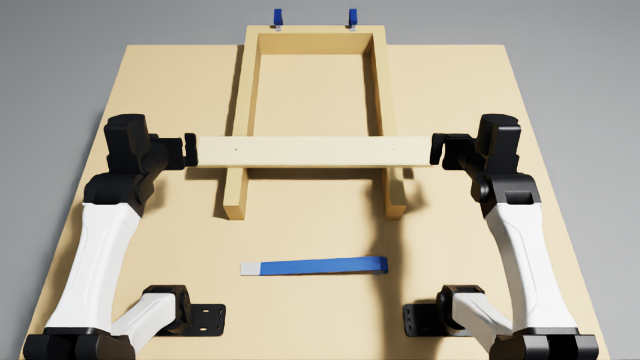
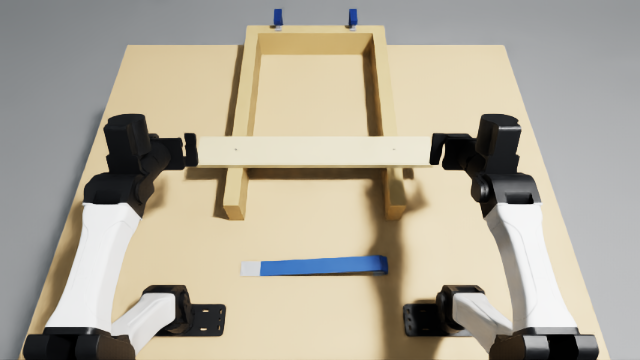
pry-board-off-joists: widen the simulated bar to the DWHT55160's listed 35.6 mm; new demo and Dream-1 runs, media and scores

Changed region(s): [[0.4062, 0.7028, 0.5938, 0.7944]]

diff --git a/tasks/pry-board-off-joists/layout.py b/tasks/pry-board-off-joists/layout.py
@@ -99,13 +99,13 @@ CARRIER_MASS = 0.05  # each of the carrier's two links
 CARRIER_Z = 25.0 * MM  # the carrier's hidden 6 mm boxes, inside each joist, this far above the table
 
 # -- the pry bar (loose) ---------------------------------------------------------------------------------------------
-# A 15 in (380 mm) flat pry bar: flat spring steel, 32 mm wide and 6 mm thick, ground to a flat chisel blade at one
+# A 15 in (380 mm) flat pry bar: flat spring steel, 35.6 mm wide and 6 mm thick, ground to a flat chisel blade at one
 # end and bent into a curved nail claw at the other, powder-coated blue with the blade and claw bare. The blade is
 # bent 15 deg off the shaft, away from the claw's curl: laid flat on the work with the shaft rising behind it, the bend
 # is the heel the bar rocks on.
 # Drawn in its own frame: x along the bar from the blade's tip (x = 0) to the claw, y across its width, z through its
 # thickness; the claw curls toward -z. Each segment: (length, thickness, angle from +x toward -z in degrees, colour).
-BAR_W = 32.0 * MM
+BAR_W = 35.6 * MM  # the DWHT55160 is listed 1.4 in wide
 BLADE_BEND = 15.0  # deg: from the tip, the blade falls toward -z (the claw's side) to meet the shaft
 BLADE_LEN = 48.0 * MM
 BAR_SEGMENTS = (
@@ -119,7 +119,7 @@ BAR_SEGMENTS = (
     (14.0 * MM, 3.5 * MM, 172.0, BAR_BRIGHT),  # the claw's tip
 )
 STEEL_DENSITY = 7850.0
-BAR_MASS = round(sum(l * t * BAR_W for l, t, _a, _c in BAR_SEGMENTS) * STEEL_DENSITY, 3)  # 0.57 kg
+BAR_MASS = round(sum(l * t * BAR_W for l, t, _a, _c in BAR_SEGMENTS) * STEEL_DENSITY, 3)  # 0.63 kg
 BAR_FRICTION = (0.9, 0.8)  # powder-coated steel on the grippers' rubber pads
 # Where it lies: on the table in front of the frame, parallel to the board, its blade to the robot's left and its
 # claw to the right, curled down: it rests on the claw and the blade's heel, the shaft sloping up toward the claw.

diff --git a/tasks/pry-board-off-joists/task.py b/tasks/pry-board-off-joists/task.py
@@ -8,7 +8,7 @@ The board: a 600 mm length of 1x4 common pine (19 x 89 mm actual, 0.46 kg) lying
 centred between them (its ends overhang each joist by 78 mm), held by one 3d box nail (1-1/4 in, bright steel) into
 each joist, driven square through its centre line, head flush.
 
-The pry bar: a 380 mm flat pry bar (0.57 kg; 32 x 6 mm blue spring steel, a flat chisel blade at one end, a curved
+The pry bar: a 380 mm flat pry bar (0.63 kg; 35.6 x 6 mm blue spring steel, a flat chisel blade at one end, a curved
 nail claw at the other) lies on the table in front of the frame, parallel to the board, its claw to the robot's right,
 curled down.
 

diff --git a/tasks/pry-board-off-joists/README.md b/tasks/pry-board-off-joists/README.md
@@ -4,7 +4,7 @@ This task builds on an earlier submission, whose 48-hour revision hold lapsed wi
 
 | Review point | What changed |
 |---|---|
-| "specify the make and model of pry bar" | The bar is now named: a DEWALT DWHT55160 15 in (380 mm) Spring Steel Flat Bar, with the maker's listing linked and the dimensions it states compared with the simulated bar (see "The pry bar for a real trial" below, and `task.json` setup). The simulated bar is unchanged: it matches the named bar's length and, within 4%, its mass; it is 3.6 mm narrower and its far end is drawn as a curled claw (that end is never used). |
+| "specify the make and model of pry bar" | The bar is now named: a DEWALT DWHT55160 15 in (380 mm) Spring Steel Flat Bar, with the maker's listing linked and the dimensions it states compared with the simulated bar (see "The pry bar for a real trial" below, and `task.json` setup). The simulated bar was widened from 32 to 35.6 mm to match the listed width (a one-line change in `layout.py`; the demo needed no retuning and still scores 1.0). It matches the listed length and width; its mass, computed from our estimated 6 mm thickness, is 0.63 kg against the listed 0.59 kg (7% heavier), and its far end is drawn as a curled claw (that end is never used). |
 
 Instruction given to the policy: `Pry the board off the joists with the pry bar and lay it flat on the table.`
 
@@ -58,7 +58,7 @@ or defective parts or sections of structures and repair or replace, using hand t
 | C-clamps | Two 6 in C-clamps hold the rim to the table's back edge, 12 cm either side of the middle (pad on the rim's top edge, fixed jaw under the table top). Nothing is screwed into the robot's table; while the bar levers, a joist is pushed down overall (the heel presses harder than the nail pulls), so the clamps only keep the frame in place |
 | Board (nailed) | 600 mm of 1x4 common pine (19.05 x 88.9 mm, S4S, eased edges), 0.46 kg, flat across the joists' tops, centred 40 cm out, ends overhanging 78 mm |
 | Nails | Two 3d box nails (1-1/4 in, 0.076 in shank, 7/32 in head, bright), one into each joist through the board's centre line, heads flush; 12.7 mm in the joist. The cleat is tacked lightly, as temporary cleats often are (about 150 N to pull a nail). Heavier nailing would be beyond what the arm can lever; the skill (seating the blade, levering on the joist, re-setting deeper) is the same |
-| Pry bar (loose) | 15 in flat pry bar, 32 x 6 mm spring steel, 0.57 kg; flat chisel blade 48 mm long bent 15 deg, ground on its top face to a 1.6 mm edge; curved nail claw at the other end. For a real trial: a DEWALT DWHT55160 15 in spring steel flat bar (see below) |
+| Pry bar (loose) | 15 in flat pry bar, 35.6 x 6 mm spring steel, 0.63 kg; flat chisel blade 48 mm long bent 15 deg, ground on its top face to a 1.6 mm edge; curved nail claw at the other end. For a real trial: a DEWALT DWHT55160 15 in spring steel flat bar (see below) |
 
 Nothing else is on the table. Coordinates for every object are in `task.json` (setup) and `layout.py`.
 
@@ -72,17 +72,16 @@ carrying a nail slot at one end and a wider, sharply bent prying end at the othe
 | | DWHT55160 (as listed) | Simulated bar |
 |---|---|---|
 | Length | 15.0 in (381 mm) | 380 mm |
-| Width | 1.4 in (35.6 mm) | 32 mm |
-| Weight | 1.3 lb (0.59 kg) | 0.57 kg |
+| Width | 1.4 in (35.6 mm) | 35.6 mm |
+| Weight | 1.3 lb (0.59 kg) | 0.63 kg (computed from the shape and our estimated thickness) |
 | Material, finish | spring steel, powder coated | spring steel, blue powder coat |
 | Thickness, blade bend | not listed | 6 mm, 15 deg (our estimates) |
 
 The bar's working end in this task is the chisel end: its blade goes into the joint and its bend rests on the joist.
-Length and mass agree; the real bar is 3.6 mm wider and its far end is a
-wide bent prying end rather than the drawn curled claw. The far end is never used here: the demo holds the bar by
-its shaft only. The thickness and blade bend are not on the listing; ours are estimates of a typical 15 in flat bar.
-The simulated bar was not re-drawn to the DEWALT outline;
-widening it to 35.6 mm and drawing the far end as the bent prying end would be the closer match.
+Length and width agree. The simulated mass, 0.63 kg, is 7% over the listed 1.3 lb: it follows from our 6 mm
+thickness estimate, so the real bar is probably somewhat thinner. Its far end is a wide bent prying end rather than
+the drawn curled claw; that end is never used here, as the demo holds the bar by its shaft only. The thickness and
+blade bend are not on the listing; ours are estimates of a typical 15 in flat bar.
 
 ## Scoring (scoring.py)
 
@@ -138,7 +137,7 @@ The scripted demo:
     python demokit.py task.py <out_dir>                   # final: records <out_dir>/full/demo.mp4 and setup.png
     python demokit.py task.py <out_dir> --fast            # physics on the CPU, no cameras: about 6 times faster
 
-It reaches 1.0 in 2,031 steps (102 s of robot time) on the GPU. A trial with cameras takes about 5 minutes of wall
+It reaches 1.0 in 2,024 steps (101 s of robot time) on the GPU. A trial with cameras takes about 5 minutes of wall
 time on one RTX 4080 (16 GB); the demo's other modes are `idle` (the setup image) and `right` (the first nail only).
 
 Offline tests (no simulator; `yam-isaac-lab-arena` on `PYTHONPATH` for `yam_arena.task_file`):
@@ -157,7 +156,7 @@ The Dream-1 run:
 Closed loop: every stage reads the bar's and the board's poses; it never reads the scorer or the nails' rule, and
 nothing is teleported or edited.
 
-1. The right arm picks the bar up by its shaft at its centre of mass (fingers across its 32 mm width), turns it
+1. The right arm picks the bar up by its shaft at its centre of mass (fingers across its 35.6 mm width), turns it
    blade forward and lays the blade flat on the right joist, its edge in the board's eased-edge V.
 2. It levers in small commanded steps until the board is seen 4 mm up (the arm is soft, so the command runs well
    past the bar's angle), re-sets the blade about 2 cm under the raised board, and levers again until the board
@@ -178,8 +177,8 @@ the bar, clear of the board; in a real trial it would then put the bar down.
 
 | Run | Score | Steps |
 |---|---|---|
-| Demo, GPU, recorded | 1.0 (right nail out at step 694, left at 1693; all 12.7 mm of each credited to the bar) | 2,031 |
-| Dream-1 (`--policy dream`, seed 0, full limit) | 0.0: it picked the bar up with its right arm several times and brought the blade to the board's front edge near the right joist, but never seated it in the joint or levered; neither nail moved, and the bar was dropped on the table and across the joists | 4,800 |
+| Demo, GPU, recorded | 1.0 (right nail out at step 676, left at 1680) | 2,024 |
+| Dream-1 (`--policy dream`, seed 0, full limit) | 0.0: it moved and turned the bar on the table with its hands but never seated the blade under the board or levered on a joist; neither nail moved and the board stayed nailed down | 4,800 |
 
 ## Third-party code and assets
 
